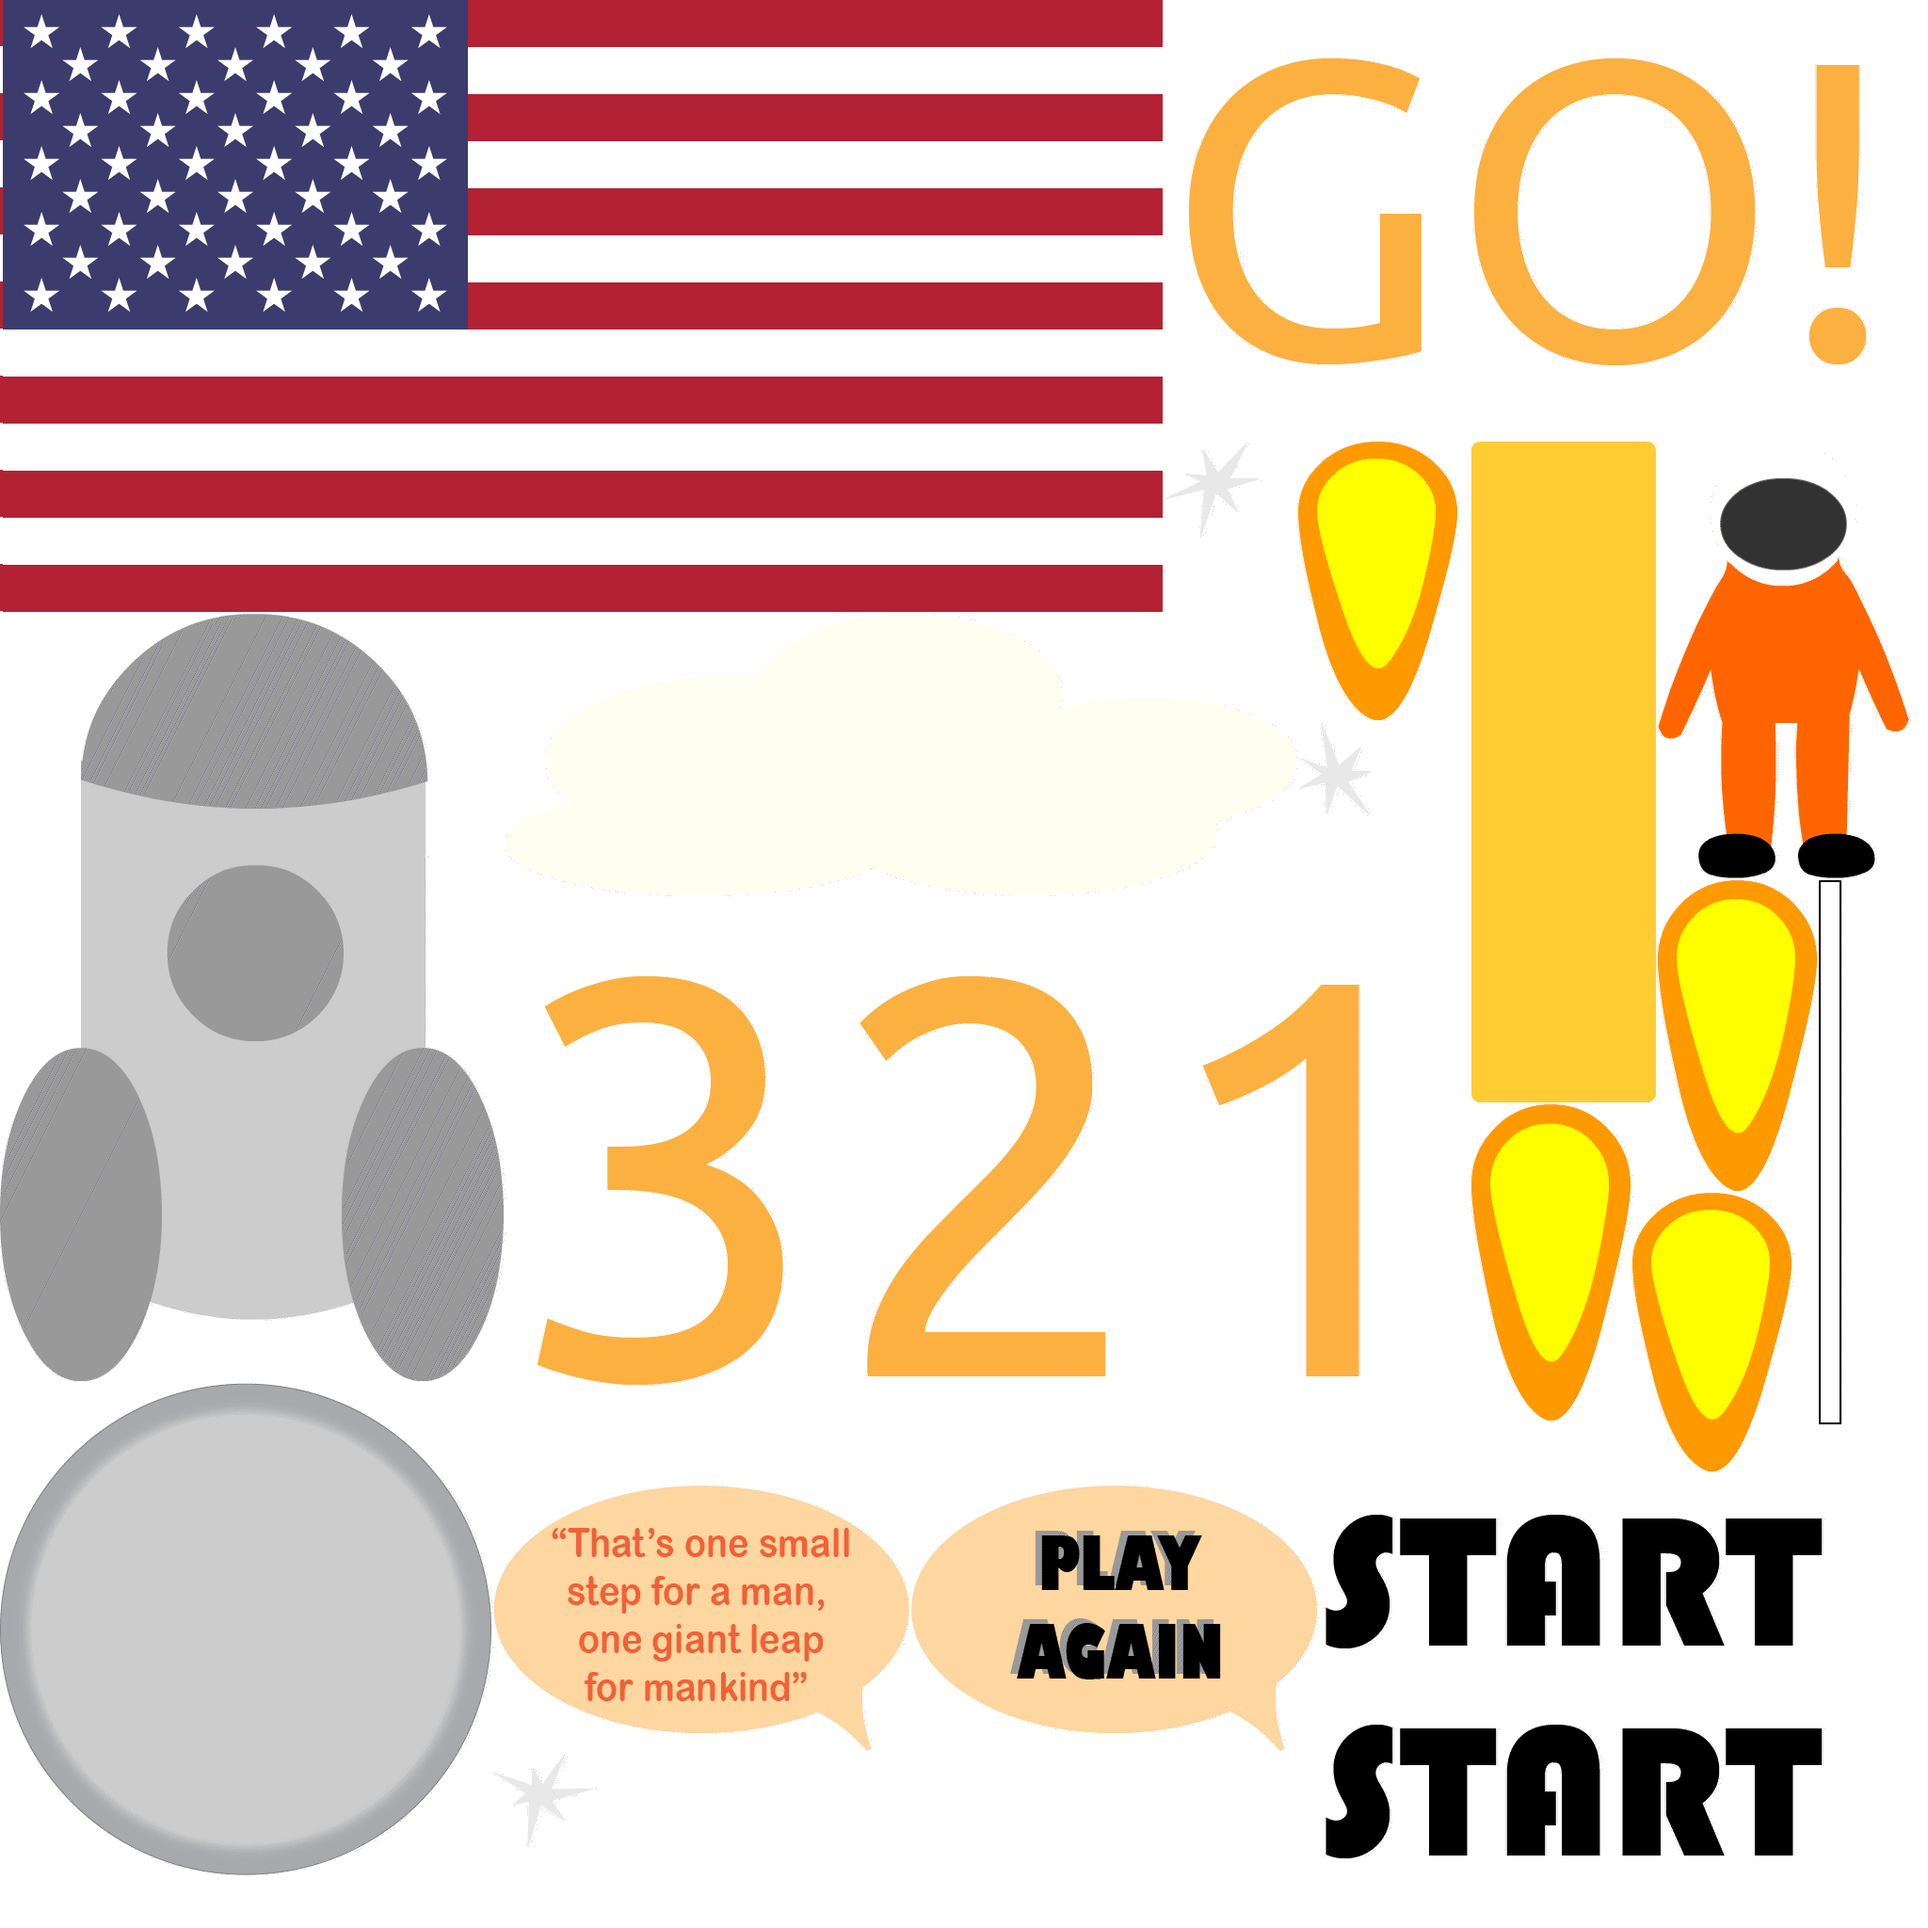
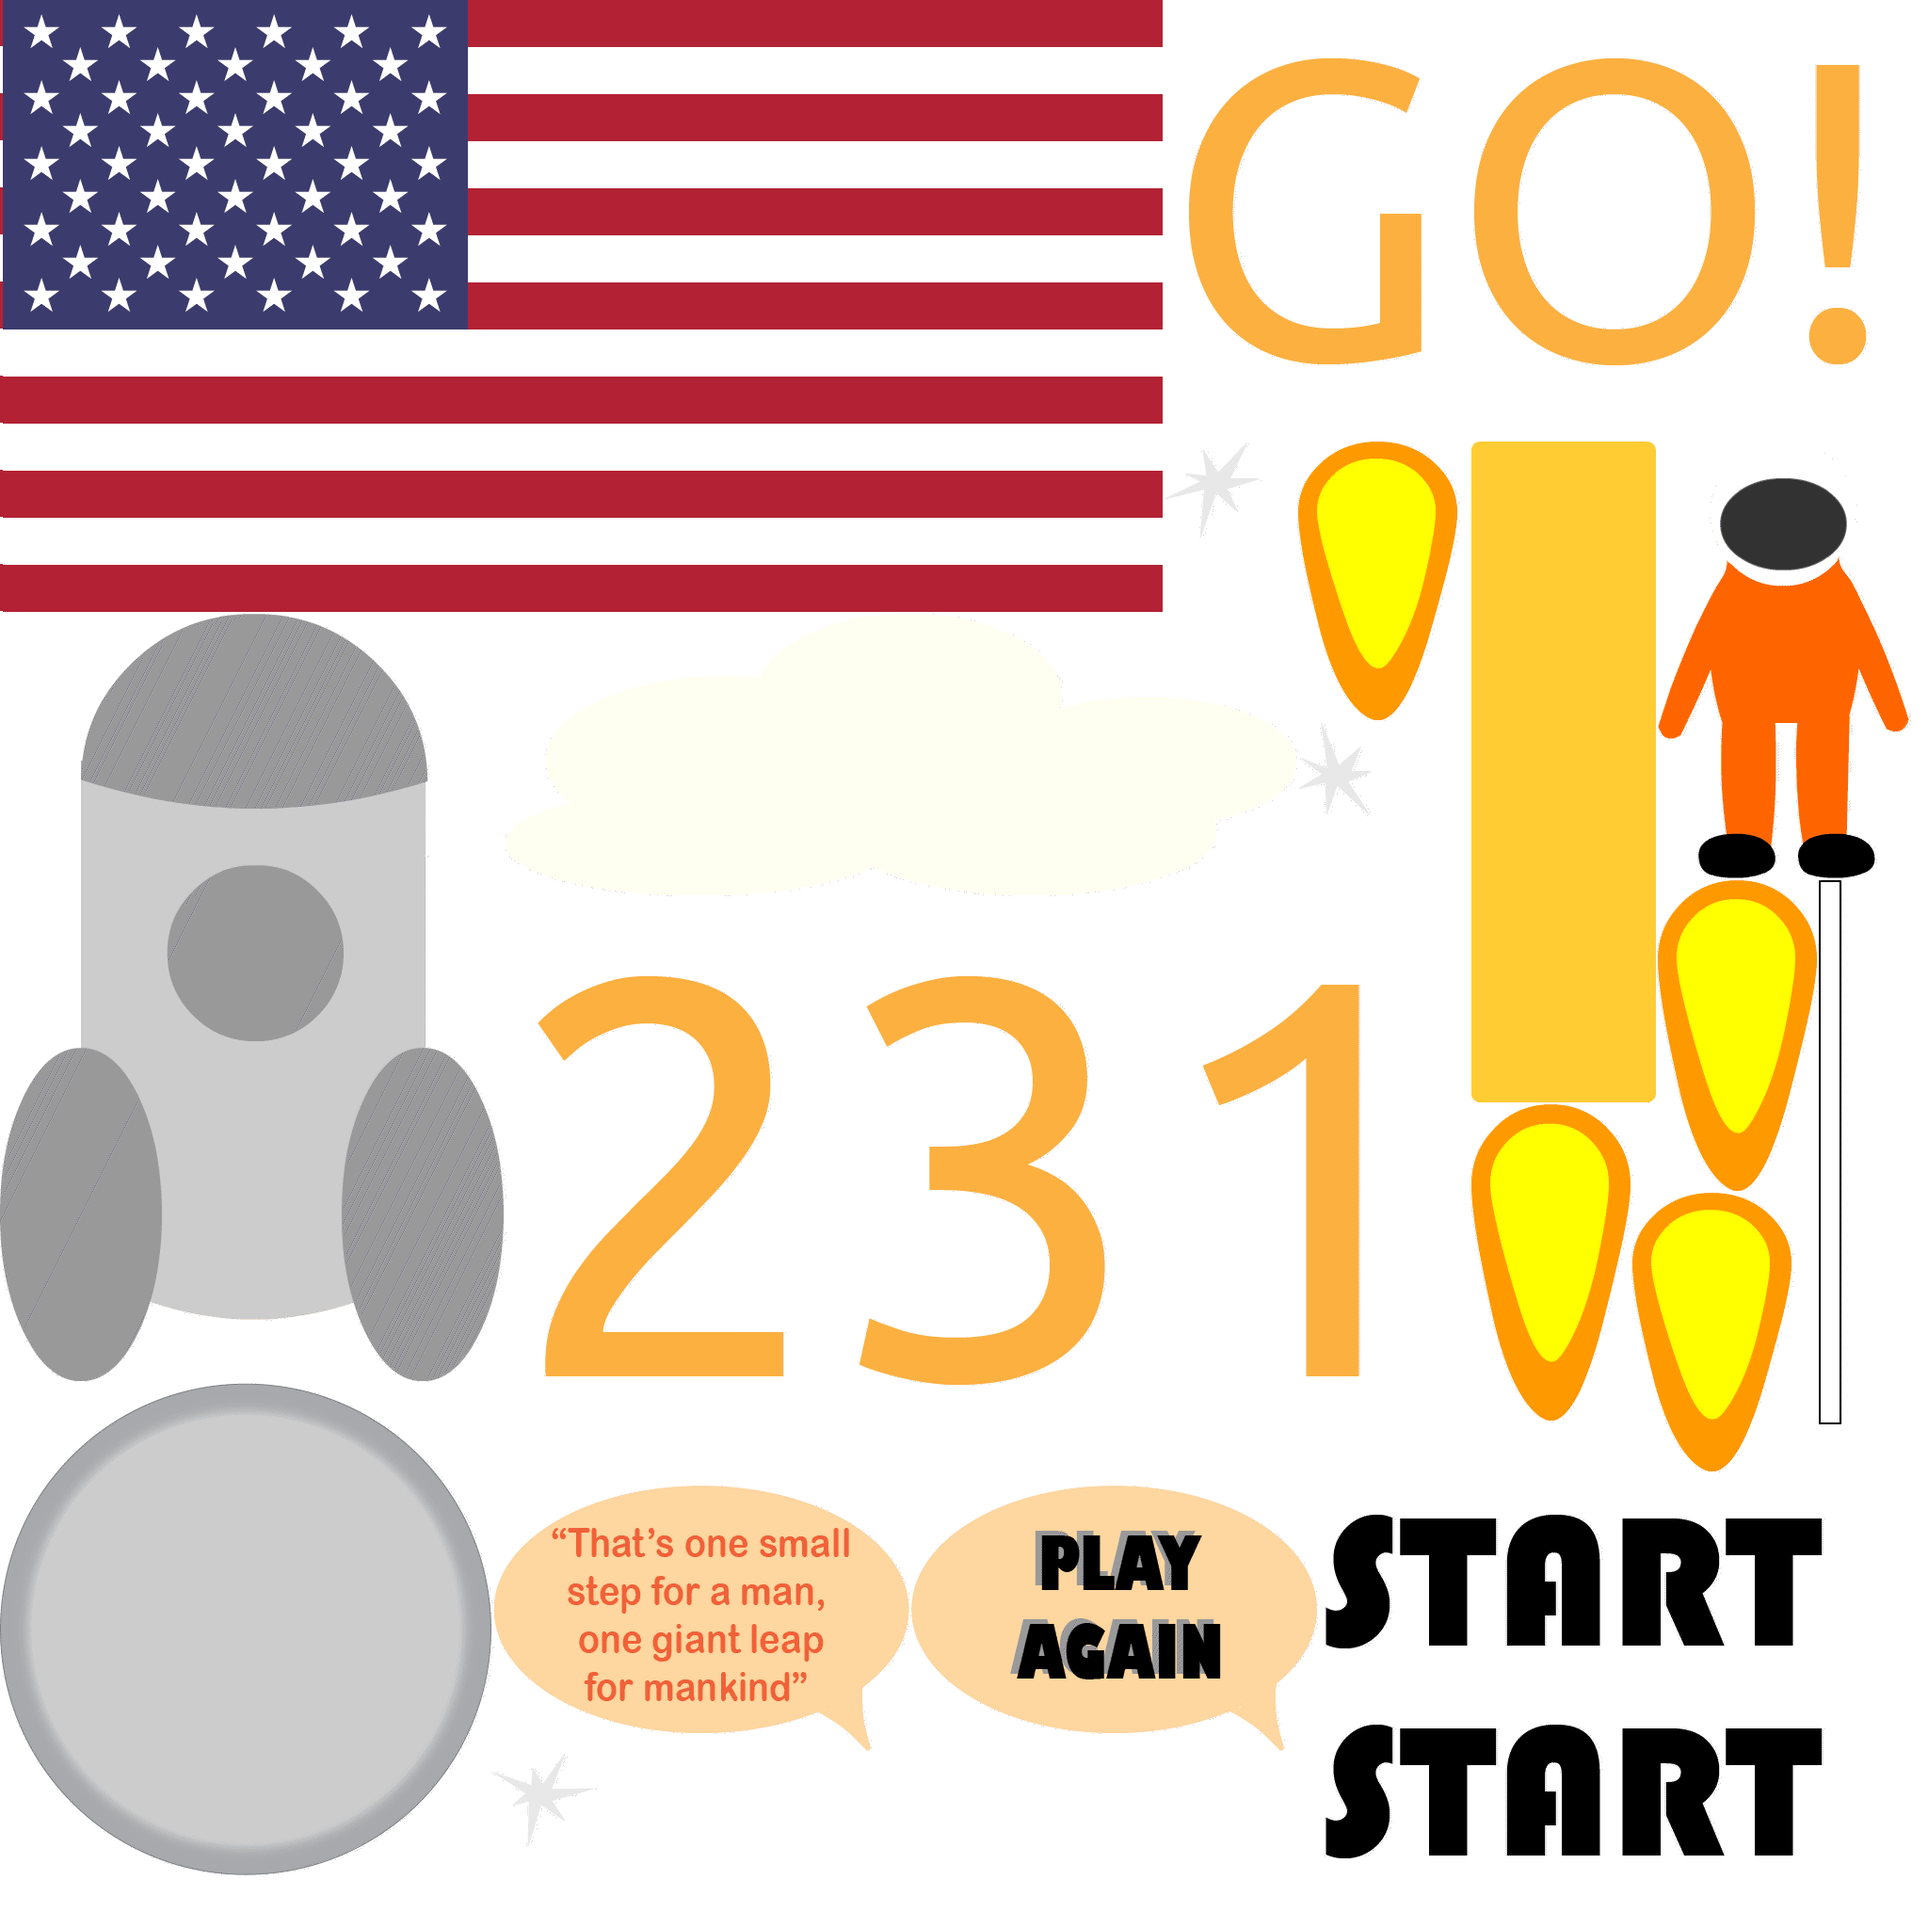
Add files via upload

diff --git a/ManOnTheMoon.js b/ManOnTheMoon.js
@@ -4,7 +4,7 @@ var p; // shortcut to reference prototypes
 var lib={};var ss={};var img={};
 lib.ssMetadata = [
 		{name:"ManOnTheMoon_atlas_", frames: [[0,927,1416,876],[0,0,1496,925]]},
-		{name:"ManOnTheMoon_atlas_2", frames: [[1221,953,340,623],[879,953,340,623],[537,953,340,623],[0,0,1235,650],[968,1578,431,282],[0,1469,522,523],[1734,1267,169,296],[1932,935,24,578],[0,652,535,815],[1237,469,101,103],[1379,767,78,100],[524,1862,107,100],[1563,469,196,702],[537,652,840,299],[1761,469,267,464],[1761,935,169,330],[1379,469,169,296],[1563,1173,169,336],[1237,0,777,467],[524,1578,442,282],[1401,1578,536,221],[1401,1801,536,221]]}
+		{name:"ManOnTheMoon_atlas_2", frames: [[1221,953,340,623],[537,953,340,623],[879,953,340,623],[0,0,1235,650],[968,1578,431,282],[0,1469,522,523],[1734,1267,169,296],[1932,935,24,578],[0,652,535,815],[1237,469,101,103],[1379,767,78,100],[524,1862,107,100],[1563,469,196,702],[537,652,840,299],[1761,469,267,464],[1761,935,169,330],[1379,469,169,296],[1563,1173,169,336],[1237,0,777,467],[524,1578,442,282],[1401,1578,536,221],[1401,1801,536,221]]}
 ];
 
 
@@ -940,7 +940,7 @@ if (loop == null) { loop = false; }	this.initialize(mode,startPosition,loop,{});
 			self.gotoAndPlay(1);
 		}
 	}
-	this.frame_2 = function() {
+	this.frame_4 = function() {
 		playSound("_3sec");
 	}
 	this.frame_120 = function() {
@@ -965,7 +965,7 @@ if (loop == null) { loop = false; }	this.initialize(mode,startPosition,loop,{});
 	}
 
 	// actions tween:
-	this.timeline.addTween(cjs.Tween.get(this).call(this.frame_0).wait(2).call(this.frame_2).wait(118).call(this.frame_120).wait(446).call(this.frame_566).wait(523).call(this.frame_1089).wait(1).call(this.frame_1090).wait(1));
+	this.timeline.addTween(cjs.Tween.get(this).call(this.frame_0).wait(4).call(this.frame_4).wait(116).call(this.frame_120).wait(446).call(this.frame_566).wait(523).call(this.frame_1089).wait(1).call(this.frame_1090).wait(1));
 
 	// Camera
 	this.___camera___instance = new lib.___Camera___();
@@ -1159,16 +1159,16 @@ lib.properties = {
 	color: "#FFFFFF",
 	opacity: 1.00,
 	manifest: [
-		{src:"images/CachedTexturedBitmap_1.png?1619171724786", id:"CachedTexturedBitmap_1"},
-		{src:"images/CachedTexturedBitmap_15.png?1619171724786", id:"CachedTexturedBitmap_15"},
-		{src:"images/CachedTexturedBitmap_2.png?1619171724786", id:"CachedTexturedBitmap_2"},
-		{src:"images/CachedTexturedBitmap_21.png?1619171724786", id:"CachedTexturedBitmap_21"},
-		{src:"images/CachedTexturedBitmap_22.png?1619171724786", id:"CachedTexturedBitmap_22"},
-		{src:"images/CachedTexturedBitmap_27.png?1619171724786", id:"CachedTexturedBitmap_27"},
-		{src:"images/ManOnTheMoon_atlas_.png?1619171724455", id:"ManOnTheMoon_atlas_"},
-		{src:"images/ManOnTheMoon_atlas_2.png?1619171724455", id:"ManOnTheMoon_atlas_2"},
-		{src:"sounds/_3sec.mp3?1619171724786", id:"_3sec"},
-		{src:"sounds/space1.mp3?1619171724786", id:"space1"}
+		{src:"images/CachedTexturedBitmap_1.png?1619172010099", id:"CachedTexturedBitmap_1"},
+		{src:"images/CachedTexturedBitmap_15.png?1619172010099", id:"CachedTexturedBitmap_15"},
+		{src:"images/CachedTexturedBitmap_2.png?1619172010099", id:"CachedTexturedBitmap_2"},
+		{src:"images/CachedTexturedBitmap_21.png?1619172010099", id:"CachedTexturedBitmap_21"},
+		{src:"images/CachedTexturedBitmap_22.png?1619172010099", id:"CachedTexturedBitmap_22"},
+		{src:"images/CachedTexturedBitmap_27.png?1619172010099", id:"CachedTexturedBitmap_27"},
+		{src:"images/ManOnTheMoon_atlas_.png?1619172009746", id:"ManOnTheMoon_atlas_"},
+		{src:"images/ManOnTheMoon_atlas_2.png?1619172009746", id:"ManOnTheMoon_atlas_2"},
+		{src:"sounds/_3sec.mp3?1619172010099", id:"_3sec"},
+		{src:"sounds/space1.mp3?1619172010099", id:"space1"}
 	],
 	preloads: []
 };

diff --git a/ManOnTheMoon.html b/ManOnTheMoon.html
@@ -22,7 +22,7 @@
   }
 </style>
 <script src="https://code.createjs.com/createjs-2015.11.26.min.js"></script>
-<script src="ManOnTheMoon.js?1619171724909"></script>
+<script src="ManOnTheMoon.js?1619172010248"></script>
 <script>
 // Global Scripts
 	var self=this;
@@ -89,6 +89,6 @@ function playSound(id, loop) {
 		<div id="dom_overlay_container" style="pointer-events:none; overflow:hidden; width:1280px; height:720px; position: absolute; left: 0px; top: 0px; display: none;">
 		</div>
 	</div>
-    <div id='_preload_div_' style='position:absolute; top:0; left:0; display: inline-block; height:720px; width: 1280px; text-align: center;'>	<span style='display: inline-block; height: 100%; vertical-align: middle;'></span>	<img src=images/_preloader.gif?1619171724909 style='vertical-align: middle; max-height: 100%'/></div>
+    <div id='_preload_div_' style='position:absolute; top:0; left:0; display: inline-block; height:720px; width: 1280px; text-align: center;'>	<span style='display: inline-block; height: 100%; vertical-align: middle;'></span>	<img src=images/_preloader.gif?1619172010249 style='vertical-align: middle; max-height: 100%'/></div>
 </body>
 </html>
